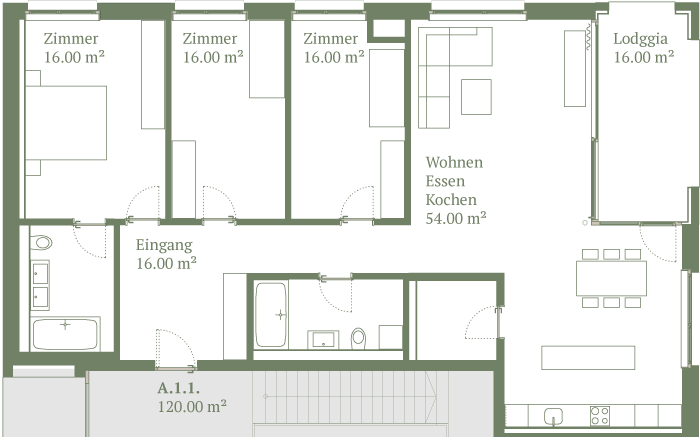
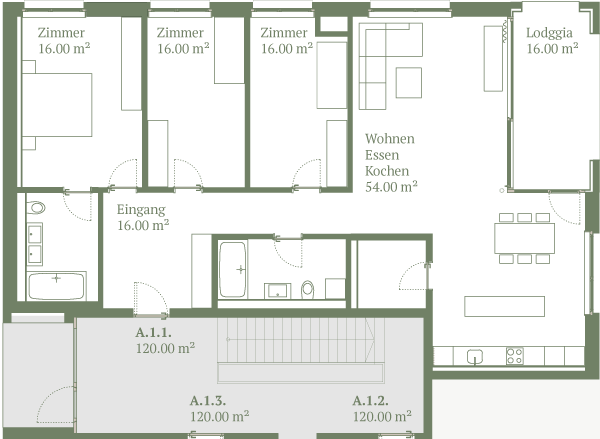
cleaning

diff --git a/css/style.css b/css/style.css
@@ -32,7 +32,7 @@ h1, h2, h3, h4, p, a, figcaption, input, textarea, button, span  {
     hyphens: auto;
     -webkit-hyphens: auto;
     text-decoration: none;
-    letter-spacing: 0.6px;
+    letter-spacing: 0.75px;
 }
 
 h1 {
@@ -46,7 +46,7 @@ h2 {
     margin-top: 40px;
     margin-bottom: 40px;
     line-height: 1.5;
-    letter-spacing: 0.8px;
+    letter-spacing: 0.75px;
 }
 
 figure {
@@ -502,7 +502,6 @@ p, a{
     margin: 40px 0px;
     position: fixed;
     display: inline-block;
-    border-right:1px dashed #718166;    
 }
 
 #bulding {
@@ -560,6 +559,7 @@ g {
     float: right;
     right: 0;
     display: inline-block;
+    background: #f7f7f5;
 }
 
 .ct .grundriss h1 {
@@ -589,6 +589,7 @@ table, th, td, td a {
     text-align: left;
     letter-spacing: 0.75px;
     border-collapse: collapse;
+    line-height: 1.5;
 }
 
 th {
@@ -602,29 +603,29 @@ th, td {
     border-right: 1px dashed #BEC7BE;
 }
 
-td a {
-    font-size: 14px;
-    opacity: 0.5;
-}
 
 td a:hover {
     opacity: 1;
 }
 
+.downloadplan {
+    padding-top: 20px;
+}
 
 th:last-child, td:last-child {border-right: none;}
 
 .planb {cursor: pointer;}
-.planb img {margin: 3px;}
+.plani {margin: 3px; opacity: 0.5;}
+.plani:hover {opacity: 1;}
 
 .plan {
     display: none;
     position: fixed;
     top: 0px;
     right: 0px;
-    width: 49.5%;
+    width: 100%;
     height:  100vh;
-    background-color: #fff;
+    background-color: #f7f7f5;
     cursor: pointer;
     z-index: 10;
 }
@@ -632,7 +633,7 @@ th:last-child, td:last-child {border-right: none;}
     position: absolute;
     margin: auto;
     top: 0;
-    bottom: 10%;
+    bottom: 0;
     left: 0;
     right: 0;
     max-height: 75%;
@@ -640,9 +641,13 @@ th:last-child, td:last-child {border-right: none;}
 }
 .plan a {
     position: absolute;
-    bottom: 40px;
-    margin: 16px 8%;
-    cursor: pointer;   
+    bottom: 0;
+    margin: 50px;
+    cursor: pointer;
+    font-size: 18px;
+}
+.plan a img {
+    position: relative;
 }
 .plan .closer {
     position: absolute;
@@ -659,6 +664,10 @@ th:last-child, td:last-child {border-right: none;}
 .v td {
     font-style: italic;
     color: rgba(95, 115, 92, 0.5);
+}
+.v td:last-child {
+    font-style: normal;
+    color: #718166;
 }
 
 /*---------------------------------- 
@@ -731,7 +740,7 @@ th:last-child, td:last-child {border-right: none;}
     margin: 0 0 5px;
     padding: 10px;
     font-size: 20px;
-    letter-spacing: 0.6px;
+    letter-spacing: 0.75px;
 }
     
 #contact button:hover {

diff --git a/wohnangebot.php b/wohnangebot.php
@@ -206,13 +206,12 @@
                 <td>120.00</td>
                 <td>1'800.-</td>
                 <td class="planb">
-                    <img src="img/plan.svg" alt="plan icon" width="21" height="18">
+                    <img class="plani" src="img/plan.svg" alt="plan icon" width="21" height="18">
                     <div class="plan">
-                        <img src="img/bg-ae1w1.png" alt="baumgarten grundriss Haus A / Ebene 1 / Wohnung 1">
+                        <img src="img/plan-ae1w1.png" alt="baumgarten grundriss Haus A / Ebene 1 / Wohnung 1">
                         <div class="closer">&#10005;</div>
-                        <a class="link" href="download/.pdf" target="_blank"><strong>A.1.1.</strong><br>3.5 ZWHG<br>NF 94.00m²<br>Download Pdf:</a>
+                        <a class="link" href="download/.pdf" target="_blank"><img src="img/download-icon.svg" width="11" height="11" alt="download icon"><strong> Grundrissplan / A.1.1.</strong> / 4.5 ZWHG (PDF)</a>
                     </div>
-                    
                 </td>
             </tr>
             <tr class="ae1w2">
@@ -222,9 +221,12 @@
                 <td>94.00</td>
                 <td>120.00</td>
                 <td>1'800.-</td>
-                <td class="planb"><img src="img/plan.svg" alt="plan icon" width="21" height="18">
+                <td class="planb">
+                    <img class="plani" src="img/plan.svg" alt="plan icon" width="21" height="18">
                     <div class="plan">
-                        <img src="img/bulding-3d%202.svg" alt="Smiley face">
+                        <img src="img/plan-ae1w2.png" alt="baumgarten grundriss Haus A / Ebene 1 / Wohnung 1">
+                        <div class="closer">&#10005;</div>
+                        <a class="link" href="download/.pdf" target="_blank"><img src="img/download-icon.svg" width="11" height="11" alt="download icon"><strong> Grundrissplan / A.1.2.</strong> / 4.5 ZWHG (PDF)</a>
                     </div>
                 </td>
             </tr>
@@ -235,9 +237,12 @@
                 <td>94.00</td>
                 <td>120.00</td>
                 <td>vermietet</td>
-                <td class="planb"><img src="img/plan.svg" alt="plan icon" width="21" height="18">
+                <td class="planb">
+                    <img class="plani" src="img/plan.svg" alt="plan icon" width="21" height="18">
                     <div class="plan">
-                        <img src="img/bulding-3d%202.svg" alt="Smiley face">
+                        <img src="img/plan-ae1w3.png" alt="baumgarten grundriss Haus A / Ebene 1 / Wohnung 1">
+                        <div class="closer">&#10005;</div>
+                        <a class="link" href="download/.pdf" target="_blank"><img src="img/download-icon.svg" width="11" height="11" alt="download icon"><strong> Grundrissplan / A.1.2.</strong> / 4.5 ZWHG (PDF)</a>
                     </div>
                 </td>
             </tr>
@@ -248,9 +253,12 @@
                 <td>94.00</td>
                 <td>120.00</td>
                 <td>vermietet</td>
-                <td class="planb"><img src="img/plan.svg" alt="plan icon" width="21" height="18">
+                <td class="planb">
+                    <img class="plani" src="img/plan.svg" alt="plan icon" width="21" height="18">
                     <div class="plan">
-                        <img src="img/bulding-3d%202.svg" alt="Smiley face">
+                        <img src="img/plan-ae1w2.png" alt="baumgarten grundriss Haus A / Ebene 1 / Wohnung 1">
+                        <div class="closer">&#10005;</div>
+                        <a class="link" href="download/.pdf" target="_blank"><img src="img/download-icon.svg" width="11" height="11" alt="download icon"><strong> Grundrissplan / A.1.2.</strong> / 4.5 ZWHG (PDF)</a>
                     </div>
                 </td>
             </tr>
@@ -261,9 +269,12 @@
                 <td>94.00</td>
                 <td>120.00</td>
                 <td>vermietet</td>
-                <td class="planb"><img src="img/plan.svg" alt="plan icon" width="21" height="18">
+                <td class="planb">
+                    <img class="plani" src="img/plan.svg" alt="plan icon" width="21" height="18">
                     <div class="plan">
-                        <img src="img/bulding-3d%202.svg" alt="Smiley face">
+                        <img src="img/plan-ae1w2.png" alt="baumgarten grundriss Haus A / Ebene 1 / Wohnung 1">
+                        <div class="closer">&#10005;</div>
+                        <a class="link" href="download/.pdf" target="_blank"><img src="img/download-icon.svg" width="11" height="11" alt="download icon"><strong> Grundrissplan / A.1.2.</strong> / 4.5 ZWHG (PDF)</a>
                     </div>
                 </td>
             </tr>
@@ -274,9 +285,12 @@
                 <td>94.00</td>
                 <td>120.00</td>
                 <td>vermietet</td>
-                <td class="planb"><img src="img/plan.svg" alt="plan icon" width="21" height="18">
+                <td class="planb">
+                    <img class="plani" src="img/plan.svg" alt="plan icon" width="21" height="18">
                     <div class="plan">
-                        <img src="img/bulding-3d%202.svg" alt="Smiley face">
+                        <img src="img/plan-ae1w2.png" alt="baumgarten grundriss Haus A / Ebene 1 / Wohnung 1">
+                        <div class="closer">&#10005;</div>
+                        <a class="link" href="download/.pdf" target="_blank"><img src="img/download-icon.svg" width="11" height="11" alt="download icon"><strong> Grundrissplan / A.1.2.</strong> / 4.5 ZWHG (PDF)</a>
                     </div>
                 </td>
             </tr>
@@ -287,9 +301,12 @@
                 <td>94.00</td>
                 <td>120.00</td>
                 <td>vermietet</td>
-                <td class="planb"><img src="img/plan.svg" alt="plan icon" width="21" height="18">
+                <td class="planb">
+                    <img class="plani" src="img/plan.svg" alt="plan icon" width="21" height="18">
                     <div class="plan">
-                        <img src="img/bulding-3d%202.svg" alt="Smiley face">
+                        <img src="img/plan-ae1w2.png" alt="baumgarten grundriss Haus A / Ebene 1 / Wohnung 1">
+                        <div class="closer">&#10005;</div>
+                        <a class="link" href="download/.pdf" target="_blank"><img src="img/download-icon.svg" width="11" height="11" alt="download icon"><strong> Grundrissplan / A.1.2.</strong> / 4.5 ZWHG (PDF)</a>
                     </div>
                 </td>
             </tr>
@@ -300,9 +317,12 @@
                 <td>94.00</td>
                 <td>120.00</td>
                 <td>vermietet</td>
-                <td class="planb"><img src="img/plan.svg" alt="plan icon" width="21" height="18">
+                <td class="planb">
+                    <img class="plani" src="img/plan.svg" alt="plan icon" width="21" height="18">
                     <div class="plan">
-                        <img src="img/bulding-3d%202.svg" alt="Smiley face">
+                        <img src="img/plan-ae1w2.png" alt="baumgarten grundriss Haus A / Ebene 1 / Wohnung 1">
+                        <div class="closer">&#10005;</div>
+                        <a class="link" href="download/.pdf" target="_blank"><img src="img/download-icon.svg" width="11" height="11" alt="download icon"><strong> Grundrissplan / A.1.2.</strong> / 4.5 ZWHG (PDF)</a>
                     </div>
                 </td>
             </tr>
@@ -313,9 +333,12 @@
                 <td>94.00</td>
                 <td>120.00</td>
                 <td>vermietet</td>
-                <td class="planb"><img src="img/plan.svg" alt="plan icon" width="21" height="18">
+                <td class="planb">
+                    <img class="plani" src="img/plan.svg" alt="plan icon" width="21" height="18">
                     <div class="plan">
-                        <img src="img/bulding-3d%202.svg" alt="Smiley face">
+                        <img src="img/plan-ae1w2.png" alt="baumgarten grundriss Haus A / Ebene 1 / Wohnung 1">
+                        <div class="closer">&#10005;</div>
+                        <a class="link" href="download/.pdf" target="_blank"><img src="img/download-icon.svg" width="11" height="11" alt="download icon"><strong> Grundrissplan / A.1.2.</strong> / 4.5 ZWHG (PDF)</a>
                     </div>
                 </td>
             </tr>
@@ -326,9 +349,12 @@
                 <td>94.00</td>
                 <td>120.00</td>
                 <td>vermietet</td>
-                <td class="planb"><img src="img/plan.svg" alt="plan icon" width="21" height="18">
+                <td class="planb">
+                    <img class="plani" src="img/plan.svg" alt="plan icon" width="21" height="18">
                     <div class="plan">
-                        <img src="img/bulding-3d%202.svg" alt="Smiley face">
+                        <img src="img/plan-ae4w1.png" alt="baumgarten grundriss Haus A / Ebene 1 / Wohnung 1">
+                        <div class="closer">&#10005;</div>
+                        <a class="link" href="download/.pdf" target="_blank"><img src="img/download-icon.svg" width="11" height="11" alt="download icon"><strong> Grundrissplan / A.4.1.</strong> / 4.5 ZWHG (PDF)</a>
                     </div>
                 </td>
             </tr>
@@ -339,17 +365,17 @@
                 <td>94.00</td>
                 <td>120.00</td>
                 <td>vermietet</td>
-                <td class="planb"><img src="img/plan.svg" alt="plan icon" width="21" height="18">
+                <td class="planb">
+                    <img class="plani" src="img/plan.svg" alt="plan icon" width="21" height="18">
                     <div class="plan">
-                        <img src="img/bulding-3d%202.svg" alt="Smiley face">
+                        <img src="img/plan-ae4w2.png" alt="baumgarten grundriss Haus A / Ebene 1 / Wohnung 1">
+                        <div class="closer">&#10005;</div>
+                        <a class="link" href="download/.pdf" target="_blank"><img src="img/download-icon.svg" width="11" height="11" alt="download icon"><strong> Grundrissplan / A.4.1.</strong> / 4.5 ZWHG (PDF)</a>
                     </div>
                 </td>
             </tr>
             <tr>
-                <td colspan="7"><a href="download/.pdf" download="Baumgarten Haus A Grundrisspläne"><img src="img/download-icon.svg" width="11" height="11" alt="download icon"> <strong>Haus A</strong> Alle Grundrisse (PDF)</a></td> 
-            </tr>
-            <tr>
-                <td colspan="7"><a href="download/.pdf" download="Baumgarten Haus A Grundrisspläne"><img src="img/download-icon.svg" width="11" height="11" alt="download icon"> <strong>Baumgarten </strong> Übersichtsplan (PDF)</a></td> 
+                <td class="downloadplan" colspan="7"><a href="download/.pdf" download="Baumgarten Haus A Grundrisspläne"><img src="img/download-icon.svg" width="11" height="11" alt="download icon"> <strong>Haus A</strong> Alle Grundrisse (PDF)</a></td> 
             </tr>
         </table>
         
@@ -508,7 +534,7 @@
                 </td>
             </tr>
             <tr>
-                <td colspan="7"><a href="download/.pdf" download="Baumgarten Haus A Grundrisspläne"><img src="img/download-icon.svg" width="15" height="15" alt="download icon"><strong> Baumgarten Haus B</strong> Grundrisse (PDF)</a></td> 
+                <td class="downloadplan" colspan="7"><a href="download/.pdf" download="Baumgarten Haus A Grundrisspläne"><img src="img/download-icon.svg" width="11" height="11" alt="download icon"> <strong>Haus B</strong> Alle Grundrisse (PDF)</a></td> 
             </tr>
         </table>
         
@@ -667,7 +693,7 @@
                 </td>
             </tr>
             <tr>
-                <td colspan="7"><a href="download/.pdf" download="Baumgarten Haus A Grundrisspläne"><img src="img/download-icon.svg" width="15" height="15" alt="download icon"><strong> Baumgarten Haus C</strong> Grundrisse (PDF)</a></td> 
+                <td class="downloadplan" colspan="7"><a href="download/.pdf" download="Baumgarten Haus A Grundrisspläne"><img src="img/download-icon.svg" width="11" height="11" alt="download icon"> <strong>Haus C</strong> Alle Grundrisse (PDF)</a></td> 
             </tr>
         </table>
     </div>

diff --git a/goldach.php b/goldach.php
@@ -30,34 +30,27 @@
              <div class="einleitunglauftext goldach">   
                 <h2>Goldach zählt wohl zu einer der beliebtesten Gemeinden am Bodensee. Mit ihrer überschaubaren Grösse wird sie bereits als Kleinstadt bezeichnet, trägt aber noch immer den Charme eines grösseren Dorfes tief im Innern. Die Lage ist perfekt, mit dem See und Naherholungsgebieten direkt vor der Haustüre und der Nähe zur Kantonshauptstadt St.Gallen, das gerade mal 13 km entfernt ist.</h2>
             </div>
-            <div class="content50img">
-                <figure>
-                    <img src="img/baumgarten-freudenau-goldach-velofahren.jpg" alt="baumgarten freudenau goldach aussenansicht baumgartenweg" width="100%" height="auto">
-                    <figcaption><strong>Bodenseeregion Goldach</strong> / Mit der Familie ein Sup ausflug auf dem Bodensee.</figcaption>
+            <figure>
+                    <iframe src="https://snazzymaps.com/embed/158435" width="100%" height="800px" style="border:none;"></iframe>
+                    <figcaption><strong>Baumgartenstrasse Map</strong> / Ansicht aller wichtigen Standpunkte in der Nähe.</figcaption>
                 </figure>
-            </div>
-            <div class="content50img">
-                <figure>
-                    <img src="img/baumgarten-freudenau-goldach-kinder-entdecken-bodensee.jpg" alt="baumgarten freudenau goldach aussenansicht baumgartenweg" width="100%" height="auto">
-                    <figcaption><strong>Bodenseeregion Goldach</strong> / Ein erfrischendes Getränk in der Tiki Strandbar.</figcaption>
-                </figure>
-            </div>
         </article>
         <article class="acontainer">
             <div class="content">
                 <h1>Mediterrane Riviera</h1>
                 <p>«Goldaha», wie Goldach um 789 genannt wurde, ist ein Ort wo sich alle Qualitäten des Lebens vereinen. An heissen Sommertagen verwandelt sich das Seeufer zu einer mediterranen Riviera, Jung und Alt, Familien und Paare treffen sich im Freibad oder auf Wiesen, treiben Sport oder lassen einfach die Seele baumeln. Sie geniessen das vielfältige kulinarische Gastronomieangebot oder löschen den Durst mit einem erfrischenden Getränk in einer der kultigen Bars.</p>
             </div>
+            
             <div class="content50img">
                 <figure>
-                    <img src="img/baumgarten-freudenau-goldach-bodensee-tiki-strandbar.jpg" alt="baumgarten freudenau goldach aussenansicht baumgartenweg" width="100%" height="auto">
-                    <figcaption><strong>Bodenseeregion Goldach</strong> / Ein erfrischendes Getränk in der Tiki Strandbar.</figcaption>
+                    <img src="img/baumgarten-freudenau-goldach-segeln.jpg" alt="baumgarten freudenau goldach aussenansicht baumgartenweg" width="100%" height="auto">
+                    <figcaption><strong>Bodenseeregion Goldach</strong> / Segeln, Baden, einfach das Leben geniessen.</figcaption>
                 </figure>
             </div>
             <div class="content50img">
                 <figure>
-                    <img src="img/d.jpg" alt="baumgarten freudenau goldach aussenansicht baumgartenweg" width="100%" height="auto">
-                    <figcaption><strong>Bodenseeregion Goldach</strong> / Mit der Familie ein Sup ausflug auf dem Bodensee.</figcaption>
+                    <img src="img/baumgarten-freudenau-goldach-bodensee-tiki-strandbar.jpg" alt="baumgarten freudenau goldach aussenansicht baumgartenweg" width="100%" height="auto">
+                    <figcaption><strong>Bodenseeregion Goldach</strong> / Tiki Strandbar Goldach</figcaption>
                 </figure>
             </div>
         </article>
@@ -67,10 +60,6 @@
                 <p>In dieser Kleinstadt fehlt es den Bewohnern an nichts, denn für alles ist gesorgt: Vom Kinderhort, Kindergarten und Schule, Einkaufsmöglichkeiten, Vereine, Sportangebote und Erholung, Seniorentreffs und kulturelle Veranstaltungen. Ach, «Gold»-ach, wahrhaftig präsentiert sich diese Gemeinde von ihrer goldigsten Seite, denn einmal angekommen, ist man gekommen um zu bleiben.</p>
                 <a class="link" href="wohnangebot" target="_self">Reservieren Sie jetzt Ihre Wohnung im Baumgarten</a>
             </div>
-            <figure>
-                    <iframe src="https://snazzymaps.com/embed/158435" width="100%" height="800px" style="border:none;"></iframe>
-                    <figcaption><strong>Baumgartenstrasse Map</strong> / Ansicht aller wichtigen Standpunkte in der Nähe.</figcaption>
-                </figure>
         </article> 
     </section>
     
